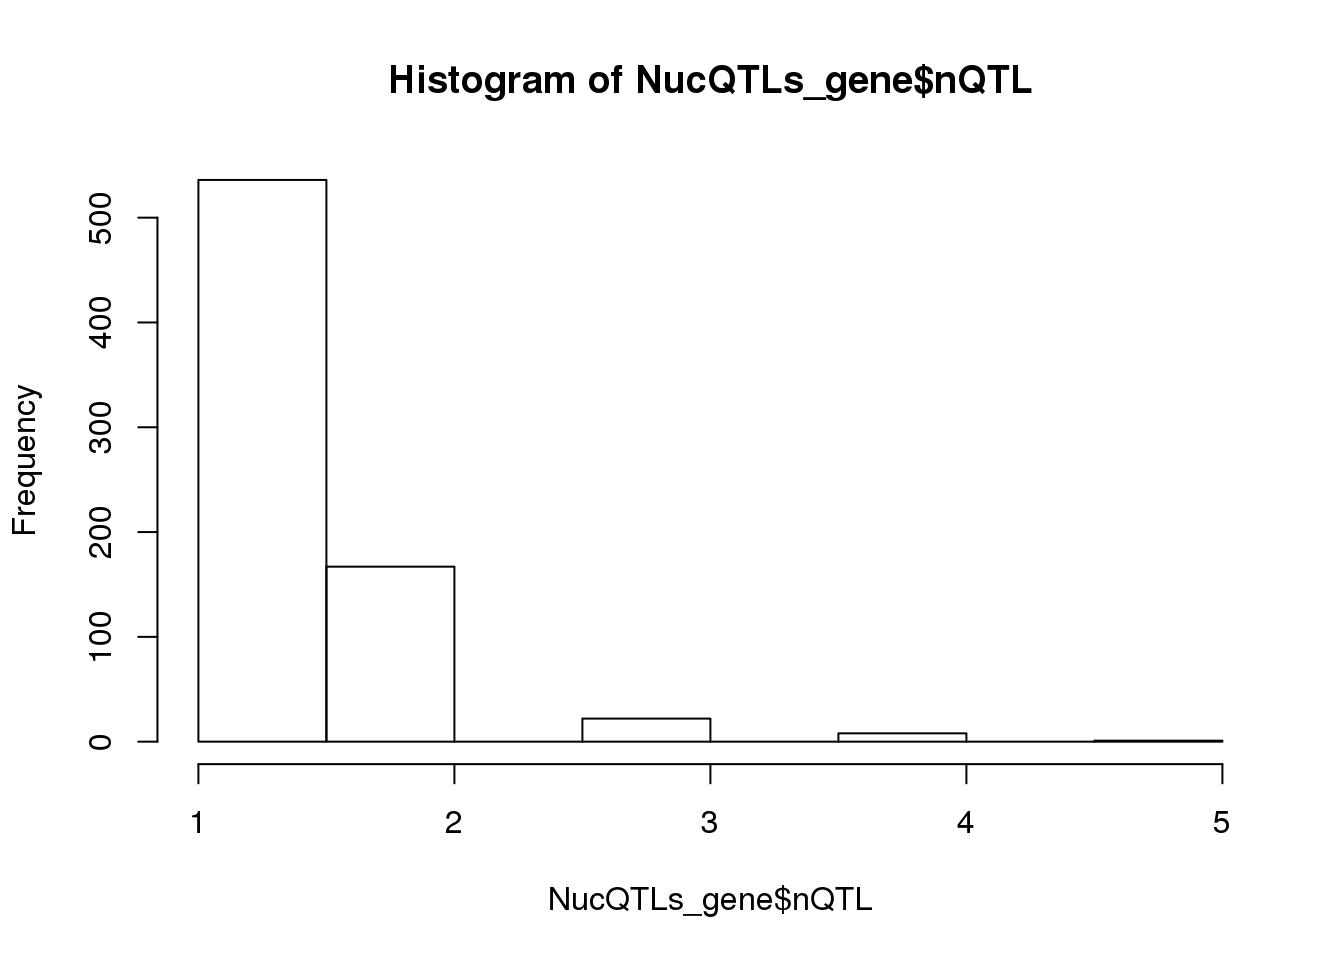
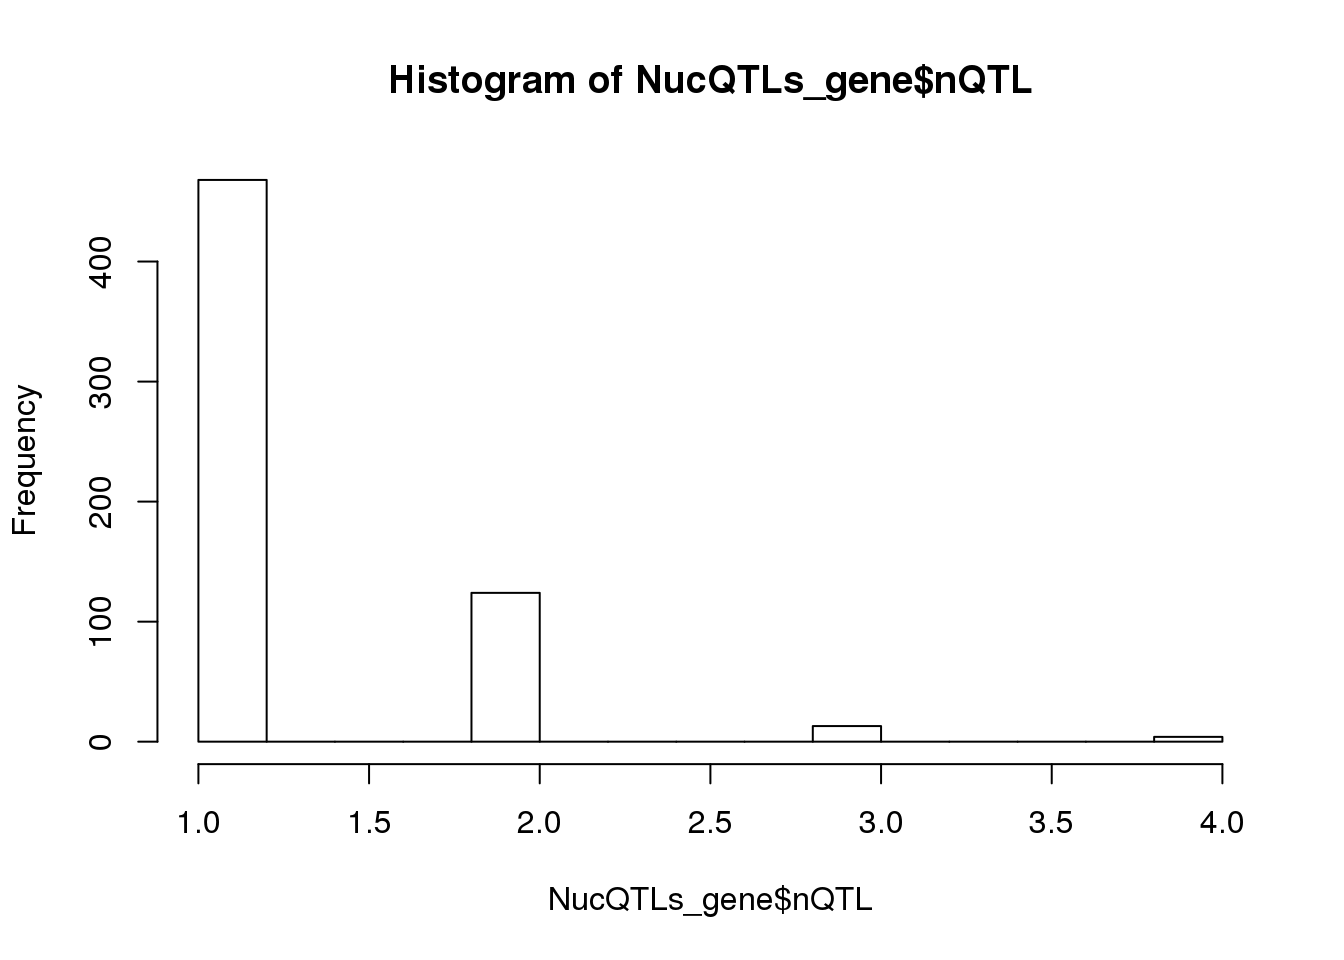
Build site.

diff --git a/docs/rerunQTL_changePC.html b/docs/rerunQTL_changePC.html
@@ -343,7 +343,7 @@ div.section {
 <div class="tab-content">
 <div id="summary" class="tab-pane fade in active">
 <p>
-<strong>Last updated:</strong> 2019-06-11
+<strong>Last updated:</strong> 2019-06-13
 </p>
 <p>
 <strong>Checks:</strong> <span class="glyphicon glyphicon-ok text-success" aria-hidden="true"></span> 6 <span class="glyphicon glyphicon-exclamation-sign text-danger" aria-hidden="true"></span> 0
@@ -422,10 +422,10 @@ This reproducible <a href="http://rmarkdown.rstudio.com">R Markdown</a> analysis
 <div class="panel panel-default">
 <div class="panel-heading">
 <p class="panel-title">
-<a data-toggle="collapse" data-parent="#workflowr-checks" href="#strongRepositoryversionstrongahrefhttpsgithubcombrimittlemanapaQTLtree8cbea223afac9a273a1a327dbf37c59c6c7043a2targetblank8cbea22a"> <span class="glyphicon glyphicon-ok text-success" aria-hidden="true"></span> <strong>Repository version:</strong> <a href="https://github.com/brimittleman/apaQTL/tree/8cbea223afac9a273a1a327dbf37c59c6c7043a2" target="_blank">8cbea22</a> </a>
+<a data-toggle="collapse" data-parent="#workflowr-checks" href="#strongRepositoryversionstrongahrefhttpsgithubcombrimittlemanapaQTLtree9d0950ce5cbb2af3808c2fb5ee49911543466ca1targetblank9d0950ca"> <span class="glyphicon glyphicon-ok text-success" aria-hidden="true"></span> <strong>Repository version:</strong> <a href="https://github.com/brimittleman/apaQTL/tree/9d0950ce5cbb2af3808c2fb5ee49911543466ca1" target="_blank">9d0950c</a> </a>
 </p>
 </div>
[2 lines of base64/hex data omitted]
 <div class="panel-body">
 <p>
 Great! You are using Git for version control. Tracking code development and connecting the code version to the results is critical for reproducibility. The version displayed above was the version of the Git repository at the time these results were generated. <br><br> Note that you need to be careful to ensure that all relevant files for the analysis have been committed to Git prior to generating the results (you can use <code>wflow_publish</code> or <code>wflow_git_commit</code>). workflowr only checks the R Markdown file, but you know if there are other scripts or data files that it depends on. Below is the status of the Git repository when the results were generated:
@@ -435,6 +435,7 @@ Ignored files:
     Ignored:    .DS_Store
     Ignored:    .Rhistory
     Ignored:    .Rproj.user/
+    Ignored:    data/.DS_Store
     Ignored:    output/.DS_Store
 
 Untracked files:
@@ -444,8 +445,10 @@ Untracked files:
     Untracked:  _workflowr.yml
     Untracked:  analysis/._PASdescriptiveplots.Rmd
     Untracked:  analysis/._cuttoffPercUsage.Rmd
+    Untracked:  analysis/QTLexampleplots.Rmd
     Untracked:  analysis/cuttoffPercUsage.Rmd
     Untracked:  analysis/eQTLoverlap.Rmd
+    Untracked:  analysis/oldstuffNotNeeded.Rmd
     Untracked:  apaQTL.Rproj
     Untracked:  code/.NascentRNAdtPlotFirstintronicPAS.sh.swp
     Untracked:  code/._ApaQTL_nominalNonnorm.sh
@@ -465,6 +468,8 @@ Untracked files:
     Untracked:  code/._NascentRNAdtPlotintronicPAS.sh
     Untracked:  code/._NascnetRNAdtPlotPAS.sh
     Untracked:  code/._NetSeq_fourthintronDT.sh
+    Untracked:  code/._QTL2bed.py
+    Untracked:  code/._QTL2bed_withstrand.py
     Untracked:  code/._SnakefilePAS
     Untracked:  code/._SnakefilefiltPAS
     Untracked:  code/._TESplots100bp.sh
@@ -494,12 +499,14 @@ Untracked files:
     Untracked:  code/._config.yaml
     Untracked:  code/._config2.yaml
     Untracked:  code/._configOLD.yaml
+    Untracked:  code/._convertNominal2SNPLOC.py
     Untracked:  code/._convertNumeric.py
     Untracked:  code/._correctNomeqtl.R
     Untracked:  code/._dag.pdf
     Untracked:  code/._eQTLgenestestedapa.py
     Untracked:  code/._encodeRNADTplots.sh
     Untracked:  code/._extractGenotypes.py
+    Untracked:  code/._extractseqfromqtlfastq.py
     Untracked:  code/._fc2leafphen.py
     Untracked:  code/._filter5perc.R
     Untracked:  code/._filter5percPheno.py
@@ -524,6 +531,7 @@ Untracked files:
     Untracked:  code/._getIntronDownstreamPAS.py
     Untracked:  code/._getIntronUpstreamPAS.py
     Untracked:  code/._getQTLalleles.py
+    Untracked:  code/._getQTLfastq.sh
     Untracked:  code/._getUpstreamIntronNuclear.py
     Untracked:  code/._grouptranscripts.py
     Untracked:  code/._keep5perMAF.py
@@ -561,6 +569,8 @@ Untracked files:
     Untracked:  code/._runMakeEmpiricaleQTL_unexp.sh
     Untracked:  code/._runMakeeQTLempirical.sh
     Untracked:  code/._run_getApaPval4eqtl.sh
+    Untracked:  code/._run_getapafromeQTL.py
+    Untracked:  code/._run_getapafromeQTL.sh
     Untracked:  code/._run_getapapval4eqtl_unexp.sh
     Untracked:  code/._run_leafcutterDiffIso.sh
     Untracked:  code/._run_sepUsagephen.sh
@@ -642,6 +652,8 @@ Untracked files:
     Untracked:  code/NascentRNAdtPlotintronicPAS.sh
     Untracked:  code/NascnetRNAdtPlotPAS.sh
     Untracked:  code/NetSeq_fourthintronDT.sh
+    Untracked:  code/QTL2bed.py
+    Untracked:  code/QTL2bed_withstrand.py
     Untracked:  code/README.md
     Untracked:  code/Rplots.pdf
     Untracked:  code/TESplots100bp.err
@@ -660,6 +672,7 @@ Untracked files:
     Untracked:  code/apaQTLCorrectPvalMakeQQ_4pc.R
     Untracked:  code/apaQTL_Nominal_4pc.sh
     Untracked:  code/apaQTL_permuted.4pc.sh
+    Untracked:  code/apafacetboxplots.R
     Untracked:  code/apaqtlfacetboxplots.R
     Untracked:  code/assignNucIntonpeak2intronlocs.sh
     Untracked:  code/assignPeak2Intronicregion.err
@@ -678,6 +691,7 @@ Untracked files:
     Untracked:  code/bothFrac_FC.out
     Untracked:  code/bothFrac_FC.sh
     Untracked:  code/codingdms2bed.py
+    Untracked:  code/convertNominal2SNPLOC.py
     Untracked:  code/correctNomeqtl.R
     Untracked:  code/dag.pdf
     Untracked:  code/dagPAS.pdf
@@ -685,6 +699,7 @@ Untracked files:
     Untracked:  code/eQTLgenestestedapa.py
     Untracked:  code/encodeRNADTplots.sh
     Untracked:  code/extractGenotypes.py
+    Untracked:  code/extractseqfromqtlfastq.py
     Untracked:  code/fc2leafphen.py
     Untracked:  code/finalPASbed2SAF.py
     Untracked:  code/findbuginpeaks.R
@@ -710,6 +725,7 @@ Untracked files:
     Untracked:  code/getIntronDownstreamPAS.py
     Untracked:  code/getIntronUpstreamPAS.py
     Untracked:  code/getQTLalleles.py
+    Untracked:  code/getQTLfastq.sh
     Untracked:  code/getSeq100up.sh
     Untracked:  code/getUpstreamIntronNuclear.py
     Untracked:  code/getseq100up.err
@@ -768,11 +784,14 @@ Untracked files:
     Untracked:  code/run_DistPAS2Sig.err
     Untracked:  code/run_DistPAS2Sig.out
     Untracked:  code/run_distPAS2Sig.sh
+    Untracked:  code/run_getAPAfromanyeQTL.err
+    Untracked:  code/run_getAPAfromanyeQTL.out
     Untracked:  code/run_getApaPval4eQTLs.err
     Untracked:  code/run_getApaPval4eQTLs.out
     Untracked:  code/run_getApaPval4eQTLsunexplained.err
     Untracked:  code/run_getApaPval4eQTLsunexplained.out
     Untracked:  code/run_getApaPval4eqtl.sh
+    Untracked:  code/run_getapafromeQTL.sh
     Untracked:  code/run_getapapval4eqtl_unexp.sh
     Untracked:  code/run_leafcutterDiffIso.sh
     Untracked:  code/run_leafcutter_ds.err
@@ -787,6 +806,8 @@ Untracked files:
     Untracked:  code/selectNominalPvalues.py
     Untracked:  code/sepUsagePhen.py
     Untracked:  code/sepgenobychrom.py
+    Untracked:  code/seqQTLfastq.err
+    Untracked:  code/seqQTLfastq.out
     Untracked:  code/seqQTLregion.err
     Untracked:  code/seqQTLregion.out
     Untracked:  code/snakePASlog.out
@@ -810,6 +831,7 @@ Untracked files:
     Untracked:  code/vcf_keepsnps.out
     Untracked:  code/zipandtabPhen.err
     Untracked:  code/zipandtabPhen.out
+    Untracked:  data/._.DS_Store
     Untracked:  data/ApaByEgene/
     Untracked:  data/CompareOldandNew/
     Untracked:  data/DTmatrix/
@@ -884,13 +906,8 @@ Untracked files:
     Untracked:  output/meanCorrelationPhenotypes.svg
 
 Unstaged changes:
-    Modified:   analysis/DiffIsoAnalysis.Rmd
-    Modified:   analysis/PASusageQC.Rmd
     Modified:   analysis/Readdistagainstfeatures.Rmd
-    Modified:   analysis/choosePCs.Rmd
-    Modified:   analysis/corrbetweenind.Rmd
-    Modified:   analysis/exvunexpeQTL.Rmd
-    Modified:   analysis/mapapaQTL.Rmd
+    Modified:   analysis/index.Rmd
     Modified:   analysis/motifDisruption.Rmd
     Modified:   analysis/nascenttranscription.Rmd
     Modified:   analysis/nucintronicanalysis.Rmd
@@ -900,12 +917,16 @@ Unstaged changes:
     Modified:   code/Snakefile
     Deleted:    code/Upstream10Bases_general.py
     Modified:   code/apaQTLCorrectPvalMakeQQ.R
+    Modified:   code/apaQTL_Nominal.sh
     Modified:   code/apaQTL_permuted.sh
     Modified:   code/apaQTLsnake.err
     Modified:   code/bam2bw.sh
     Modified:   code/bed2saf.py
     Modified:   code/cluster.json
+    Modified:   code/clusterfiltPAS.json
     Modified:   code/config.yaml
+    Modified:   code/environment.yaml
+    Modified:   code/makePheno.py
     Deleted:    code/test.txt
 
 </code></pre>
@@ -945,6 +966,23 @@ Message
 </tr>
 </thead>
 <tbody>
+<tr>
+<td>
+html
+</td>
+<td>
+<a href="https://rawcdn.githack.com/brimittleman/apaQTL/1a29304c32c143dc38f78fd98f10c4c3da7aec11/docs/rerunQTL_changePC.html" target="_blank">1a29304</a>
+</td>
+<td>
+brimittleman
+</td>
+<td>
+2019-06-11
+</td>
+<td>
+Build site.
+</td>
+</tr>
 <tr>
 <td>
 Rmd
@@ -1038,12 +1076,12 @@ choose pcs and start qtl rerun
 </div>
 </div>
 <pre class="r"><code>library(tidyverse)</code></pre>
-<pre><code>── Attaching packages ───────────────────────────────────────────────────────────── tidyverse 1.2.1 ──</code></pre>
+<pre><code>── Attaching packages ─────────────────────────────────────────────────────────────── tidyverse 1.2.1 ──</code></pre>
 <pre><code>✔ ggplot2 3.1.1       ✔ purrr   0.3.2  
 ✔ tibble  2.1.1       ✔ dplyr   0.8.0.1
 ✔ tidyr   0.8.3       ✔ stringr 1.3.1  
 ✔ readr   1.3.1       ✔ forcats 0.3.0  </code></pre>
-<pre><code>── Conflicts ──────────────────────────────────────────────────────────────── tidyverse_conflicts() ──
+<pre><code>── Conflicts ────────────────────────────────────────────────────────────────── tidyverse_conflicts() ──
 ✖ dplyr::filter() masks stats::filter()
 ✖ dplyr::lag()    masks stats::lag()</code></pre>
 <pre class="r"><code>library(cowplot) </code></pre>
@@ -1096,13 +1134,13 @@ cat ../data/apaQTLPermuted_4pc/APApeak_Phenotype_GeneLocAnno.Nuclear.5perc.fc.gz
 <p>Total Apa QTLs</p>
 <pre class="r"><code>TotQTLs= totRes %&gt;% filter(-log10(bh)&gt;=1)
 nrow(TotQTLs)</code></pre>
-<pre><code>[1] 494</code></pre>
+<pre><code>[1] 440</code></pre>
 <p>apaQTL genes:</p>
 <pre class="r"><code>TotQTLs_gene=TotQTLs %&gt;% group_by(Gene)  %&gt;% summarise(nQTL=n())
 
 summary(TotQTLs_gene$nQTL)</code></pre>
 <pre><code>   Min. 1st Qu.  Median    Mean 3rd Qu.    Max. 
-   1.00    1.00    1.00    1.31    2.00    4.00 </code></pre>
+  1.000   1.000   1.000   1.254   1.000   4.000 </code></pre>
 <pre class="r"><code>hist(TotQTLs_gene$nQTL)</code></pre>
 <p><img src="figure/rerunQTL_changePC.Rmd/unnamed-chunk-11-1.png" width="672" style="display: block; margin: auto;" /></p>
 <p>
@@ -1127,6 +1165,17 @@ Date
 </tr>
 </thead>
 <tbody>
+<tr>
+<td>
+<a href="https://github.com/brimittleman/apaQTL/blob/1a29304c32c143dc38f78fd98f10c4c3da7aec11/docs/figure/rerunQTL_changePC.Rmd/unnamed-chunk-11-1.png" target="_blank">1a29304</a>
+</td>
+<td>
+brimittleman
+</td>
+<td>
+2019-06-11
+</td>
+</tr>
 <tr>
 <td>
 <a href="https://github.com/brimittleman/apaQTL/blob/84c56ab28e20c2a0ce4aaee4fee0eb0e2f117a19/docs/figure/rerunQTL_changePC.Rmd/unnamed-chunk-11-1.png" target="_blank">84c56ab</a>
@@ -1154,13 +1203,13 @@ totQTLloc=ggplot(TotQTLs_loc, aes(x=Loc, y=PropLoc, fill=Loc)) + geom_bar(stat =
 <p>Nuclear Apa QTLs</p>
 <pre class="r"><code>NucQTLs= nucRes %&gt;% filter(-log10(bh)&gt;=1)
 nrow(NucQTLs)</code></pre>
-<pre><code>[1] 973</code></pre>
+<pre><code>[1] 771</code></pre>
 <p>apaQTL genes:</p>
 <pre class="r"><code>NucQTLs_gene= NucQTLs %&gt;% group_by(Gene)  %&gt;% summarise(nQTL=n())
 
 summary(NucQTLs_gene$nQTL)</code></pre>
 <pre><code>   Min. 1st Qu.  Median    Mean 3rd Qu.    Max. 
-  1.000   1.000   1.000   1.326   2.000   5.000 </code></pre>
+  1.000   1.000   1.000   1.266   1.000   4.000 </code></pre>
 <pre class="r"><code>hist(NucQTLs_gene$nQTL)</code></pre>
 <p><img src="figure/rerunQTL_changePC.Rmd/unnamed-chunk-15-1.png" width="672" style="display: block; margin: auto;" /></p>
 <p>
@@ -1185,6 +1234,17 @@ Date
 </tr>
 </thead>
 <tbody>
+<tr>
+<td>
+<a href="https://github.com/brimittleman/apaQTL/blob/1a29304c32c143dc38f78fd98f10c4c3da7aec11/docs/figure/rerunQTL_changePC.Rmd/unnamed-chunk-15-1.png" target="_blank">1a29304</a>
+</td>
+<td>
+brimittleman
+</td>
+<td>
+2019-06-11
+</td>
+</tr>
 <tr>
 <td>
 <a href="https://github.com/brimittleman/apaQTL/blob/84c56ab28e20c2a0ce4aaee4fee0eb0e2f117a19/docs/figure/rerunQTL_changePC.Rmd/unnamed-chunk-15-1.png" target="_blank">84c56ab</a>
@@ -1229,6 +1289,17 @@ Date
 </tr>
 </thead>
 <tbody>
+<tr>
+<td>
+<a href="https://github.com/brimittleman/apaQTL/blob/1a29304c32c143dc38f78fd98f10c4c3da7aec11/docs/figure/rerunQTL_changePC.Rmd/unnamed-chunk-17-1.png" target="_blank">1a29304</a>
+</td>
+<td>
+brimittleman
+</td>
+<td>
+2019-06-11
+</td>
+</tr>
 <tr>
 <td>
 <a href="https://github.com/brimittleman/apaQTL/blob/84c56ab28e20c2a0ce4aaee4fee0eb0e2f117a19/docs/figure/rerunQTL_changePC.Rmd/unnamed-chunk-17-1.png" target="_blank">84c56ab</a>
